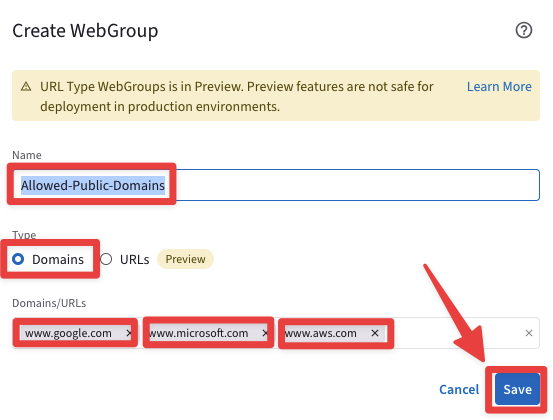
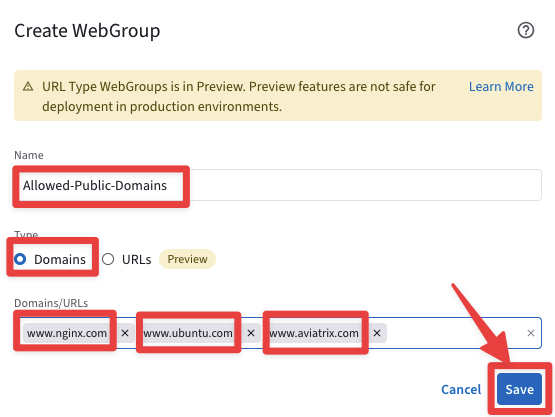
update for pro

diff --git a/ace_pro/docs/lab9.md b/ace_pro/docs/lab9.md
@@ -292,9 +292,9 @@ Create the new **_WebGroup_** with the following parameters:
 
 - **Name**: <span style='color:#479608'>Allowed-Public-Domains</span>
 - **Type**: <span style='color:#479608'>Domains</span>
-- **Domains/URLs**: <span style='color:#479608'>www.google.com</span>
-- **Domains/URLs**: <span style='color:#479608'>www.microsoft.com</span>
-- **Domains/URLs**: <span style='color:#479608'>www.aws.com</span>
+- **Domains/URLs**: <span style='color:#479608'>www.nginx.com</span>
+- **Domains/URLs**: <span style='color:#479608'>www.ubuntu.com</span>
+- **Domains/URLs**: <span style='color:#479608'>www.aviatrix.com</span>
 
 Do not forget to click on **Save**.
 
@@ -321,6 +321,7 @@ Insert the following parameters
 - **Name**: <span style='color:#479608'>PSF-Rule-Permit</span>
 - **Source Groups**: <span style='color:#479608'>aws-us-east-1-spoke1-test1</span>
 - **Destination Groups**: <span style='color:#479608'>Public Internet</span>
+- **WebGroups**: <span style='color:#479608'>Allowed-Public-Domains</span>
 - **Protocol**: <span style='color:#479608'>Any</span>
 - **Enforcement**: <span style='color:#479608'>**On**</span>
 - **Logging**: <span style='color:#479608'>On</span>
@@ -344,12 +345,39 @@ align: center
 New DCF Rules List
 ```
 
+Now from your SSH client, issue the following commands:
 
+```bash
+curl https://www.nginx.com
+```
 
+```bash
+curl https://www.ubuntu.com
+```
 
+```bash
+curl https://www.aviatrix.com
+```
 
+```{figure} images/lab96-newrule301.png
+---
+align: center
+---
+Outcomes from the curl commands
+```
 
+Now issue again the curl command towards the malicious IP address provided by the Trainer!
 
+```bash
+curl https://<malicious-IP>
+```
+
+```{figure} images/lab96-newrule302.png
+---
+align: center
+---
+Towards the Malicious IP
+```
 
 
 
